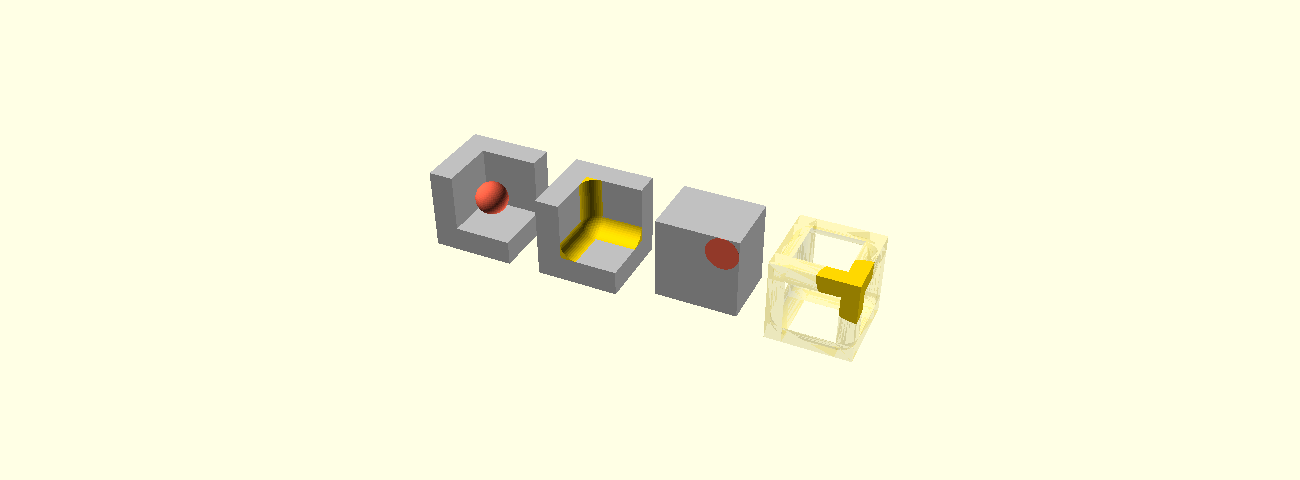
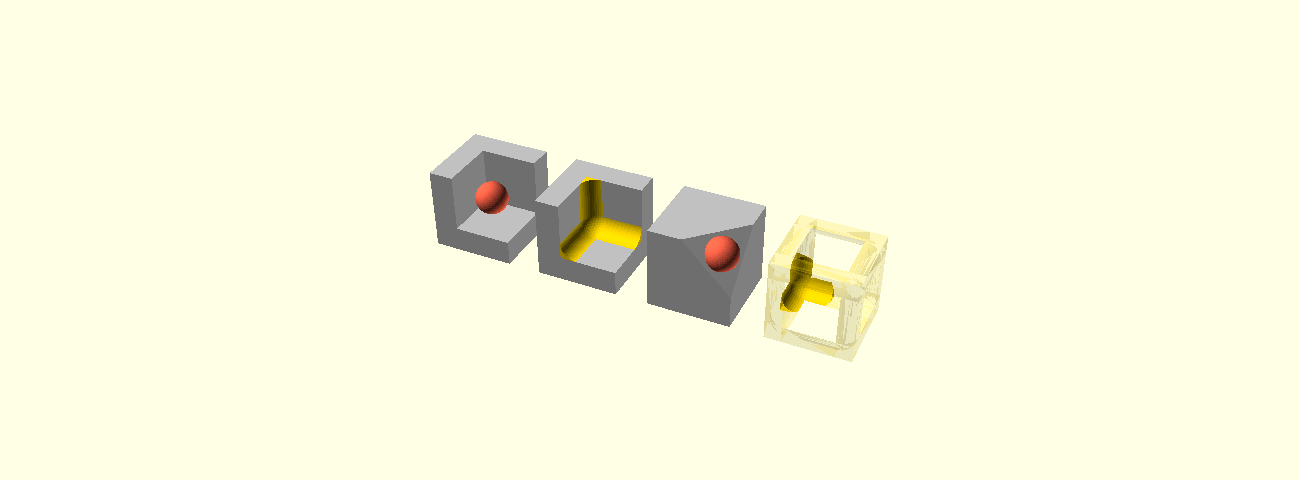
Cut each figure where the thing it is about can actually be seen
The cylinder now sits over the middle of the crease instead of covering the
wedge it is coming out of. The outside corner has its tip sliced off square to
the body diagonal with the ball left whole, so it reads as a ball in a cube
rather than a disc painted on a face - a cut square to one face takes one of the
three faces away with it, which is what made the old panel unreadable. The cube
tool keeps its FAR corner solid, so what shows through the alpha is the cell's
inner face, which is the surface the finished round leaves.

And a fourth wedge panel, because the section is a pentagon and every render of
it shows a triangle: the two corners past the walls are 1e-3 of the size, 0.004
mm at r = 4. Drawn flat and far larger than life, with the caption saying so.

Claude-Session: https://claude.ai/code/session_01HK63dJXHBvkFw6WjH9x3Wa

Changed region(s): [[0.4923, 0.4688, 0.6769, 0.6875]]

diff --git a/fillet-pr/pr-body/pr.md b/fillet-pr/pr-body/pr.md
@@ -59,9 +59,13 @@ the whole tool. `fillet_tool(r = 4)` is the same prism with a cylinder of radius
 
 ![One straight crease](fig-wedge.png)
 
-*Left: `chamfer_tool(t = 4)` in gold on the model in grey. Middle: the same
-wedge, with the cylinder that is about to come out of it drawn in red. Right:
-`fillet_tool(r = 4)`. Source: `fig-wedge.scad`.*
+*1: `chamfer_tool(t = 4)` in gold on the model in grey. 2: the same wedge, with
+the cylinder that is about to come out of it in red. 3: `fillet_tool(r = 4)`. 4:
+the cross-section, lying flat — the wedge is a **pentagon**, not a triangle,
+because each cell stands a hair past both walls so that it crosses the surface
+instead of resting on it. That hair is `1e-3` of the size — 0.004 mm here — so it
+is drawn far larger than life, and panels 1–3 show a triangle and are not wrong
+to. Source: `fig-wedge.scad`.*
 
 Where a blend stops and flat wall starts is decided by a ball of the requested
 radius: seat it in the crease so it touches both walls, and the two points it
@@ -78,10 +82,12 @@ leave for it:
 
 *1: an inside corner with the ball seated against all three walls. 2:
 `fillet_tool(r = 4)` on it — three beads and the corner cell between them. 3: the
-outside corner of a cube, cut open through the ball's centre, because at a convex
-corner the ball sits inside the material. 4: the whole `round_tool(r = 4)` for
-that cube — twelve beads and eight corner cells in one connected piece — with the
-same corner left solid and the rest dropped to alpha. Source: `fig-corner.scad`.*
+outside corner of a cube with its tip sliced off square to the body diagonal and
+the ball left whole, because at a convex corner the ball sits inside the
+material. 4: the whole `round_tool(r = 4)` for that cube — twelve beads and eight
+corner cells in one connected piece — with the far corner left solid and the rest
+dropped to alpha, so what shows is the cell's inner face. Source:
+`fig-corner.scad`.*
 
 The concave and convex cases are one construction with a sign flipped: the ball's
 centre goes into the empty quadrant for a fillet and into the material for a

diff --git a/fillet-pr/README.md b/fillet-pr/README.md
@@ -55,8 +55,8 @@ panel is a marker cloud:
 
 | Figure | `--imgsize` | Pieces | What they are |
 |---|---|---|---|
-| `pr-body/fig-wedge` | 1200,460 | 3 panels | `chamfer_tool`, the cylinder that comes out of it, `fillet_tool`. Copied unchanged into `wiki-page/` and `doc-page/` |
-| `pr-body/fig-corner` | 1300,480 | 4 panels | inside corner: ball then tool; outside corner: ball in section, then the whole cube tool with one corner solid and the rest at alpha 0.18 |
+| `pr-body/fig-wedge` | 1400,600 | 4 panels | `chamfer_tool`, the cylinder that comes out of it, `fillet_tool`, and the cross-section lying flat with the overshoot drawn far larger than life. Copied unchanged into `wiki-page/` and `doc-page/` |
+| `pr-body/fig-corner` | 1300,480 | 4 panels | inside corner: ball then tool; outside corner: the tip sliced off square to the body diagonal with the ball left whole, then the whole cube tool with the **far** corner solid and the rest at alpha 0.18, so the cell's inner face is what shows |
 | `pr-body/fig-hull` | 1400,520 | 4 panels | a boss on a plate — the foot ring's balls then its tool, the rim's balls then its tool. The right two are cut in half; in panel 4 the model is cut 0.05 behind the tool and has the whole tool differenced out of it, so the tool's cross-section stands proud in its own colour instead of fighting the model's cut face |
 | `pr-body/fig-classify` | 1100,620 | 225 | disjoint marker cubes, so a cloud is correct |
 | `pr-body/fig-hard-cases` | 1200,520 | 3 | one per panel; the pocket's cutting box is deliberately oversize, see the note in the script |

diff --git a/fillet-pr/doc-page/fillet.md b/fillet-pr/doc-page/fillet.md
@@ -35,10 +35,12 @@ rolling down the corner, touching both walls the whole way.
 
 ![A tool solid, by hand](fig-wedge.png)
 
-*Left: the prism, which is `chamfer_tool(t = 4)`. Middle: the same prism with the
-cylinder subtracted. Right: `fillet_tool(r = 4)`. The prism is drawn reaching
-slightly into the walls, which is how it is built — a tool has to cross the
-surface it cuts, not rest on it.*
+*Left to right: `chamfer_tool(t = 4)` in gold on the model in grey; the same
+prism with the cylinder that comes out of it drawn in red; `fillet_tool(r = 4)`;
+and the cross-section lying flat. The section is a pentagon because every cell
+stands a hair past both walls — a tool has to cross the surface it cuts rather
+than rest on it — and that hair is drawn far larger than life, being 0.004 mm at
+this size.*
 
 The rest is that idea generalised: the corner bends, the walls curve, the angle
 between them changes along the way, and where several corners meet at a point the

diff --git a/fillet-pr/wiki-page/fillet-round-chamfer-bevel.md b/fillet-pr/wiki-page/fillet-round-chamfer-bevel.md
@@ -64,9 +64,11 @@ walls.
 
 ![A tool solid, by hand](fig-wedge.png)
 
-*Left: the prism — that is `chamfer_tool(t = 4)`. Middle: the same prism with the
-cylinder subtracted. Right: what `fillet_tool(r = 4)` gives you. The prism is
-drawn reaching slightly into the walls, which is how it is actually built.*
+*Left to right: the prism, which is `chamfer_tool(t = 4)`; the same prism with
+the cylinder that comes out of it in red; what `fillet_tool(r = 4)` gives you;
+and the cross-section lying flat. The prism reaches a hair into the walls, so a
+tool crosses the surface it cuts rather than resting on it — drawn far larger
+than life in the last panel, being 0.004 mm at this size.*
 
 Everything else the operators do is that idea generalised: the corner bends, the
 walls curve, the angle between them changes along the way, and several corners
